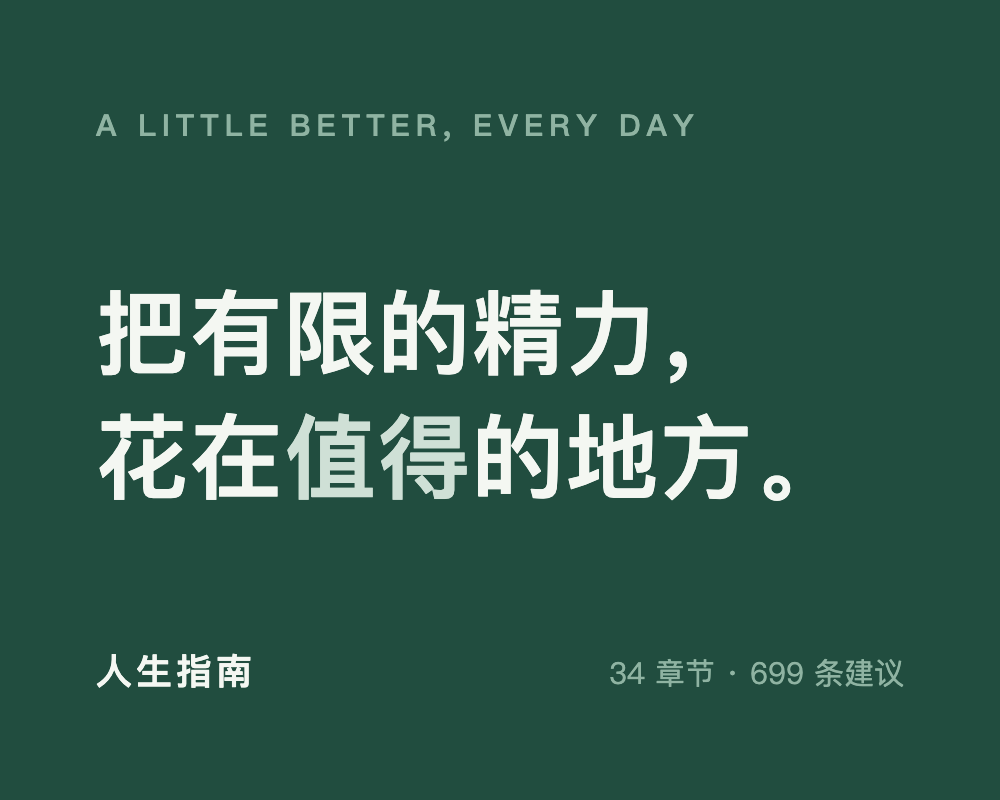
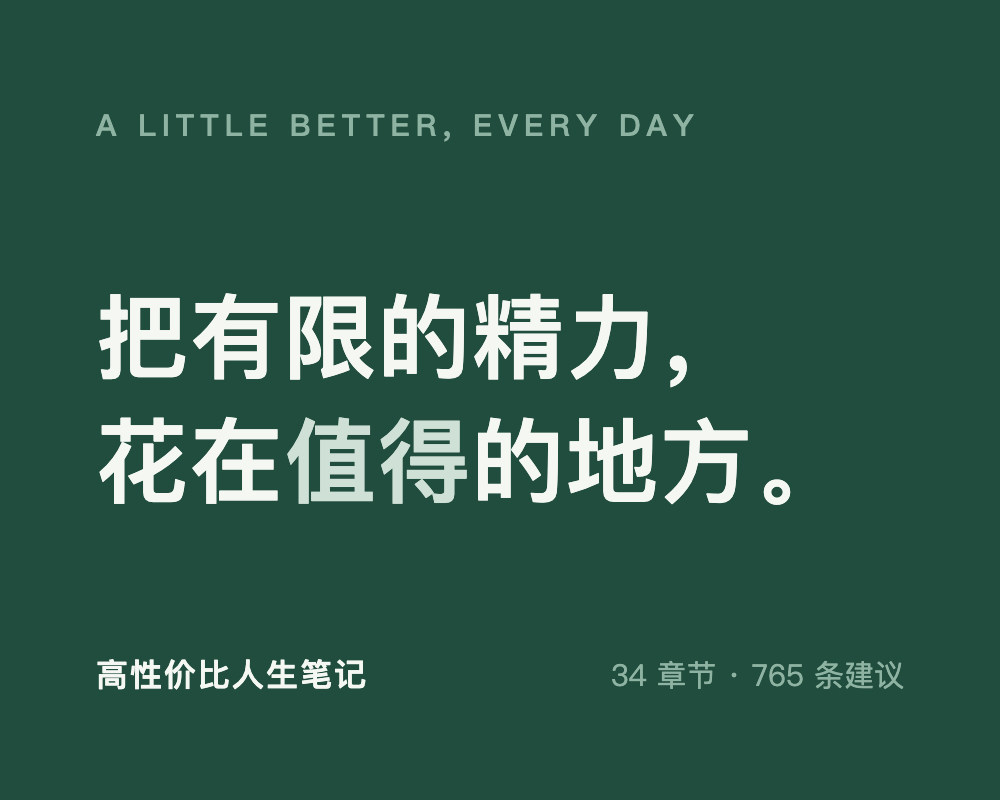
fix: share cover still said 人生指南 and 699
The share card image was rendered from a script with the brand name and
item count hardcoded, so after the content sync took the catalogue from
699 to 765 guides nobody re-ran it and every share still advertised the
old numbers and the pre-rename app name.

Read chapters and guide count from data/guides.js in the render script
so a re-run follows the data, lift the app name into a constant, and
regenerate the image.

Also fix the assertions that were left behind by the same sync: the
catalogue test compared against 699 and had been failing, and the
browser spec expected the literal 699 in the hero text. Both now check
bounds or patterns rather than the exact count.

diff --git a/tests/core.test.ts b/tests/core.test.ts
@@ -5,8 +5,16 @@ import {filterGuides,roiOf,type Catalog} from '../packages/domain/catalog.ts';
 import {createApp} from '../apps/api/app.ts';
 const catalog:Catalog=JSON.parse(readFileSync('data/catalog.json','utf8'));
 test('全量内容、来源、档位与稳定身份',()=>{
- assert.equal(catalog.guides.length,699);assert.equal(catalog.chapters.length,34);assert.equal(new Set(catalog.guides.map(g=>g.id)).size,699);
- assert.equal(catalog.guides.filter(g=>g.roi==='极高').length,117);assert.equal(catalog.guides.filter(g=>g.roi==='高').length,314);
+ // 条数随内容同步变化，不要写死。历史上从 699 涨到 765 时这里没跟上，
+ // 测试就一直红着。改成守住下限 + 自洽校验，数据更新不用动测试。
+ const n=catalog.guides.length;
+ assert.ok(n>=700,`内容条数不应低于 700，实际 ${n}`);
+ assert.equal(catalog.chapters.length,34);
+ assert.equal(new Set(catalog.guides.map(g=>g.id)).size,n);
+ const top=catalog.guides.filter(g=>g.roi==='极高').length;
+ const high=catalog.guides.filter(g=>g.roi==='高').length;
+ assert.ok(top>0&&high>0,'性价比档位不应为空');
+ assert.ok(top+high<=n);
  for(const g of catalog.guides){assert.ok(g.rawMarkdown&&g.sourceText&&g.contentHash);assert.equal(g.roi,roiOf(g));}
 });
 test('组合筛选、同口径排序及未知成本边界',()=>{

diff --git a/docs/changelog.md b/docs/changelog.md
@@ -2,6 +2,29 @@
 
 ## 2026-10-30
 
+### 分享图上的名字和条数是旧的（人生指南 · 699）
+
+分享卡片的图 `assets/share-cover.png` 上印着「人生指南 · 34 章节 · 699 条建议」，两处都过时：
+
+- **「人生指南」** 是改名前的旧小程序名
+- **699** 是内容同步前的条数（现在 765）
+
+图由 `scripts/render-share-cover.mjs` 用 Playwright 渲染 HTML 生成，但脚本里把名字和数字都写死了，数据从 699 涨到 765 后没人重跑，所以分享出去一直印着旧值。
+
+改法：脚本改为**从 `data/guides.js` 动态读章节数和条数**，品牌名提为常量，重新生成。以后内容同步后跑一次 `node scripts/render-share-cover.mjs` 就跟上。
+
+> 内容更新后记得重跑这个脚本，否则图上的数字又会落后。
+
+### 顺带修掉过时的测试断言
+
+内容从 699 涨到 765 时，`tests/core.test.ts` 的 `assert.equal(catalog.guides.length, 699)` 没跟着改，测试**一直是红的**（`765 !== 699`）；`tests/browser.spec.mjs` 也把「34 个章节 · 699 条真实建议」写进了断言。
+
+- `core.test.ts`：改成守下限（≥700）+ 自洽校验（id 唯一、档位非空），数据更新不用再动测试
+- `browser.spec.mjs`：正则匹配数字，不写死
+- `README.md`：去掉「699 条」的表述
+
+现在 6 个测试全绿。
+
 ### 新增：搜索历史（最近在搜）
 
 搜索框下方列出最近搜过的词，点一下直接填入并搜索，不用再手打一遍。

diff --git a/README.md b/README.md
@@ -22,7 +22,7 @@ npm ci
 npm run dev
 ```
 
-打开 http://127.0.0.1:5173 。API 位于 http://127.0.0.1:8787 。两者仅绑定本机；H5 通过 Vite 代理访问 API。`npm run dev` 会自动导入 34 章、699 条正文。可将 `.env.example` 复制为 `.env` 调整配置，默认本地启用开发登录，生产始终关闭。
+打开 http://127.0.0.1:5173 。API 位于 http://127.0.0.1:8787 。两者仅绑定本机；H5 通过 Vite 代理访问 API。`npm run dev` 会自动导入全书 34 章正文。可将 `.env.example` 复制为 `.env` 调整配置，默认本地启用开发登录，生产始终关闭。
 
 `npm run import` 导入内容；`npm test` 检查导入、排序、权限、隔离、合并和注销；`npm run typecheck` 检查类型；`npm run build` 构建 H5；`npm run build:mp` 构建微信产物到 `dist/build/mp-weixin`。
 
